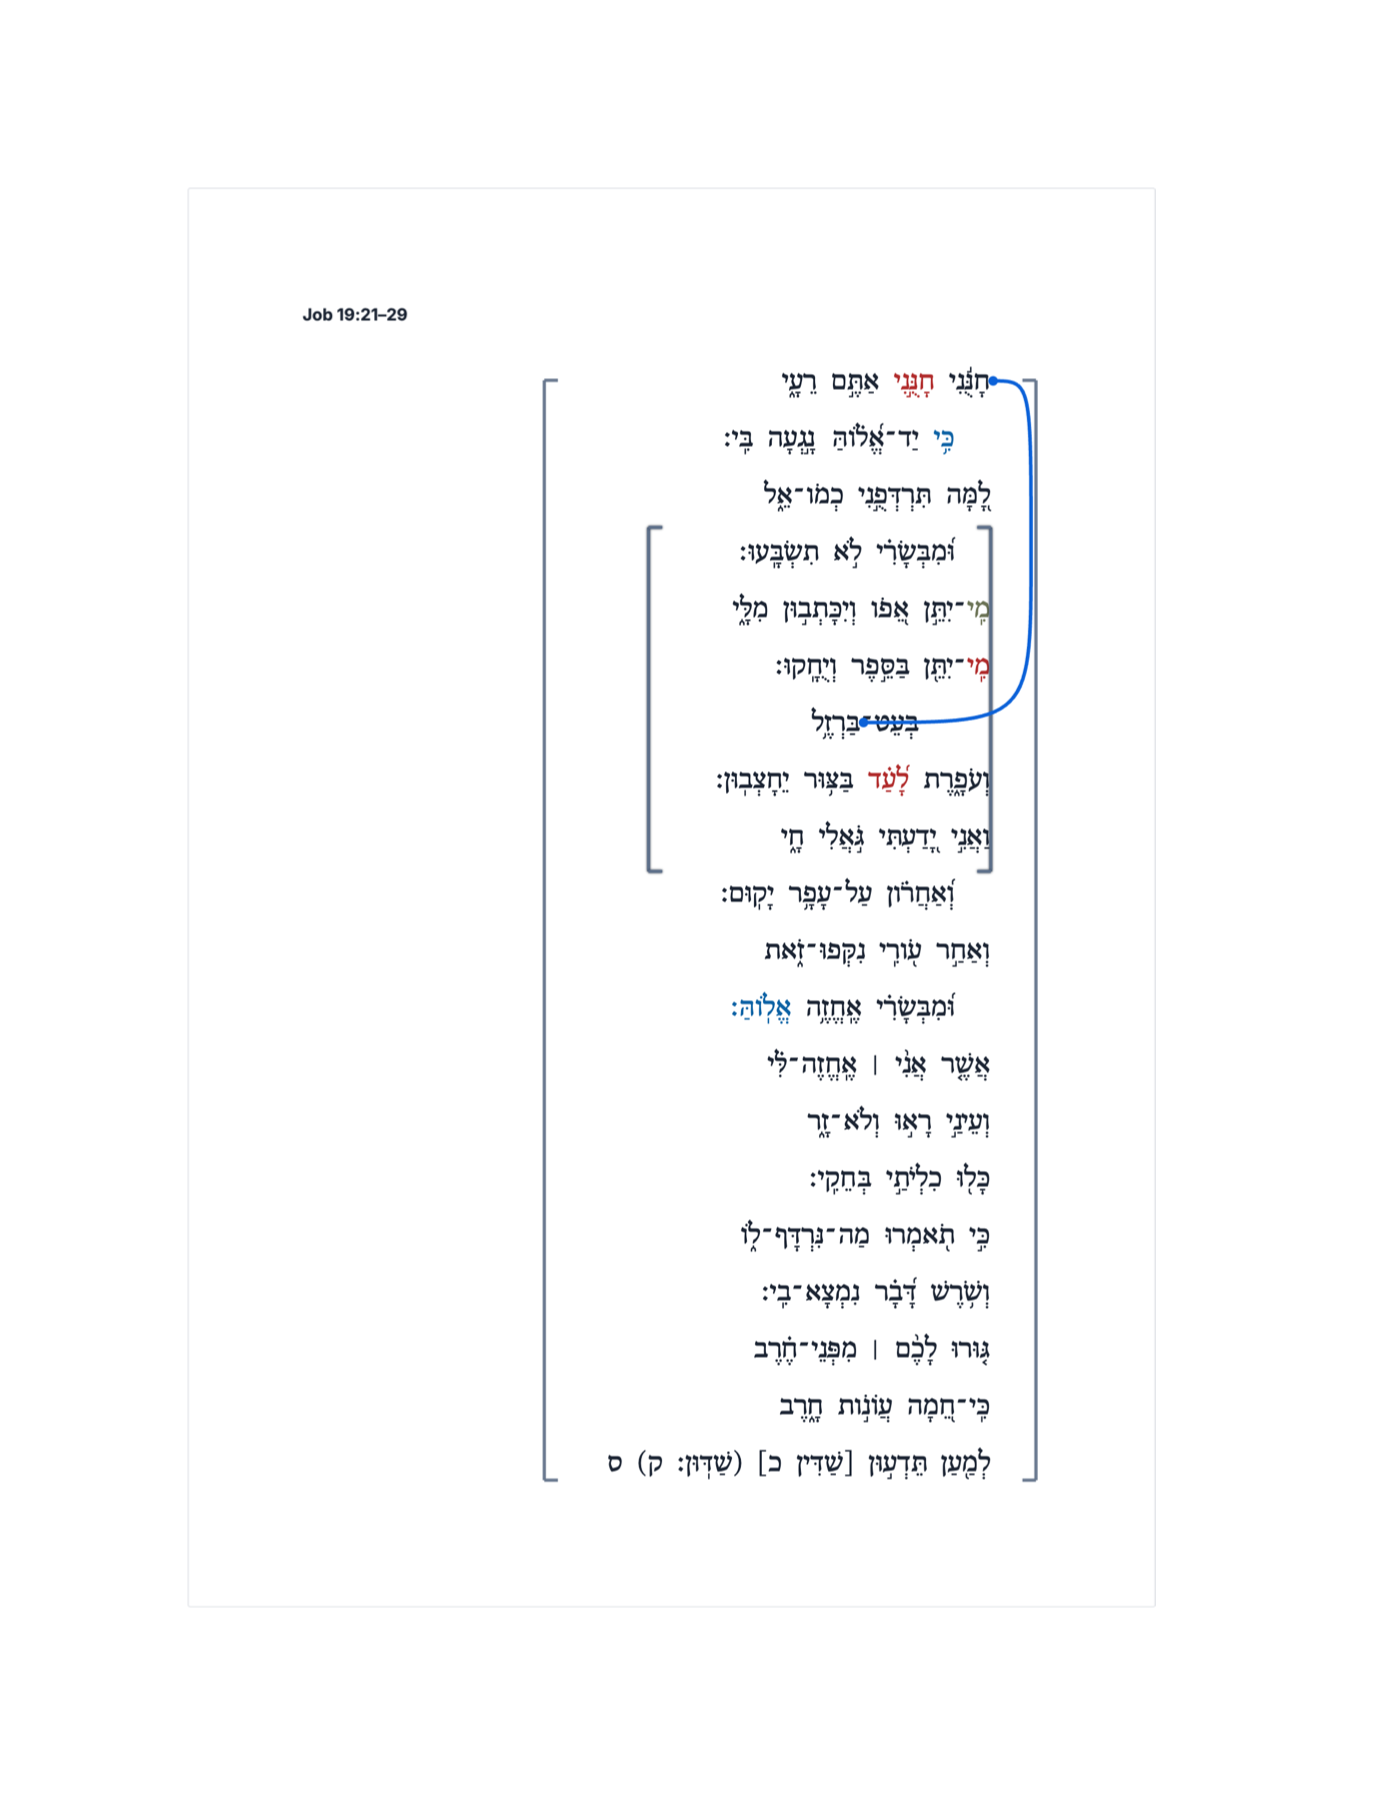
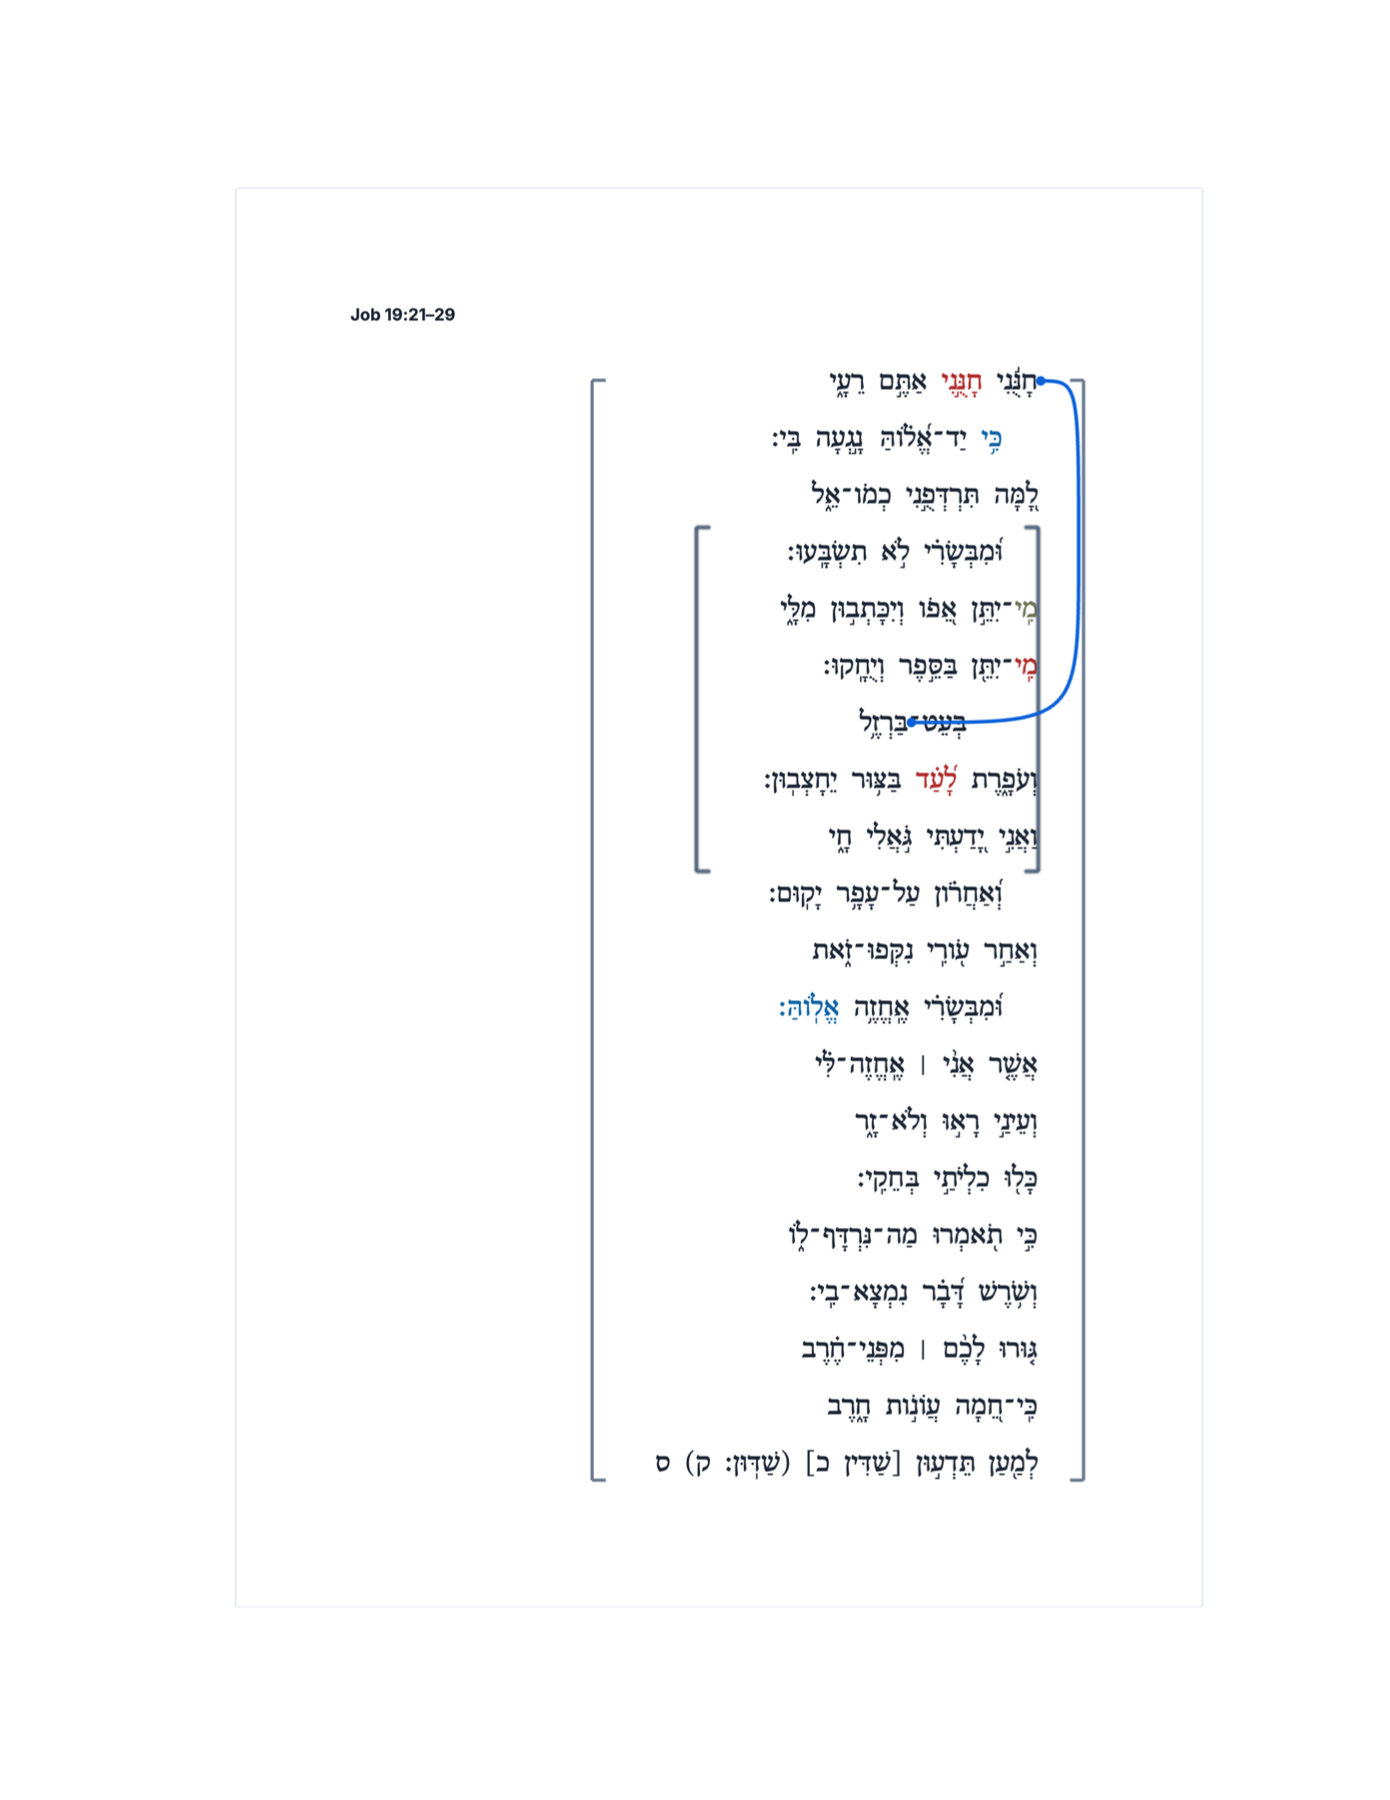
Right-align Hebrew worksheet snapshot on Letter PDF (PWA v83).
Anchor the frozen snapshot to the right printable margin instead of centering, without changing capture scale or contour layout.

Changed region(s): [[0.464, 0.1867, 0.8043, 0.84], [0.2165, 0.1556, 0.3094, 0.1867]]

diff --git a/js/app/worksheet-screenshot-export.js b/js/app/worksheet-screenshot-export.js
@@ -164,6 +164,9 @@ function buildSnapshotWorksheetDocument(capture, wsOpts) {
   const imgH = Math.round(capture.sheetH * imgScale);
   const marginIn = layout.marginIn;
   const pageSize = layout.cssSize;
+  const isGreek = typeof state !== 'undefined' && state.language === 'greek';
+  const alignClass = isGreek ? 'contour-snapshot-align-ltr' : 'contour-snapshot-align-rtl';
+  const objectPos = isGreek ? 'top left' : 'top right';
 
   const css = `@page{size:${pageSize};margin:0}`
     + '*{box-sizing:border-box;-webkit-print-color-adjust:exact!important;print-color-adjust:exact!important}'
@@ -172,13 +175,17 @@ function buildSnapshotWorksheetDocument(capture, wsOpts) {
     + '.contour-snapshot-print-hint{font-size:13px;color:#64748b;margin:0 0 12px 0;max-width:640px;line-height:1.45}'
     + '.contour-snapshot-print-hint strong{color:#b45309}'
     + `.contour-snapshot-page{width:${layout.pageW}px;min-height:${layout.pageH}px;padding:${layout.marginPx}px;background:#fff;page-break-after:avoid;page-break-inside:avoid}`
-    + `.contour-snapshot-img-wrap{width:${layout.areaW}px;max-height:${layout.areaH}px;overflow:hidden}`
-    + `.contour-snapshot-img{display:block;width:${imgW}px;height:${imgH}px;image-rendering:auto}`
+    + `.contour-snapshot-img-wrap{display:flex;align-items:flex-start;width:${layout.areaW}px;max-height:${layout.areaH}px;overflow:hidden}`
+    + `.contour-snapshot-align-rtl{justify-content:flex-end}`
+    + `.contour-snapshot-align-ltr{justify-content:flex-start}`
+    + `.contour-snapshot-img{display:block;flex:0 0 auto;width:${imgW}px;height:${imgH}px;max-width:100%;image-rendering:auto}`
     + '@media print{'
     + 'html,body{margin:0!important;padding:0!important;width:8.5in;height:11in}'
     + `.contour-snapshot-page{width:8.5in!important;height:11in!important;min-height:11in;padding:${marginIn}in!important;overflow:hidden;transform:none!important}`
-    + `.contour-snapshot-img-wrap{width:calc(8.5in - ${marginIn * 2}in)!important;max-height:calc(11in - ${marginIn * 2}in)!important}`
-    + `.contour-snapshot-img{width:100%!important;height:auto!important;max-height:calc(11in - ${marginIn * 2}in)!important;object-fit:contain;object-position:top left;transform:none!important}`
+    + `.contour-snapshot-img-wrap{display:flex!important;align-items:flex-start!important;width:calc(8.5in - ${marginIn * 2}in)!important;max-height:calc(11in - ${marginIn * 2}in)!important;overflow:hidden!important}`
+    + `.contour-snapshot-align-rtl{justify-content:flex-end!important}`
+    + `.contour-snapshot-align-ltr{justify-content:flex-start!important}`
+    + `.contour-snapshot-img{display:block!important;flex:0 0 auto!important;width:auto!important;max-width:100%!important;height:auto!important;max-height:calc(11in - ${marginIn * 2}in)!important;object-fit:contain;object-position:${objectPos}!important;transform:none!important}`
     + 'button,.contour-snapshot-print-hint{display:none!important}'
     + '}';
 
@@ -191,7 +198,7 @@ function buildSnapshotWorksheetDocument(capture, wsOpts) {
     + '<body class="contour-snapshot-worksheet">'
     + hint
     + '<button type="button" onclick="window.print()" style="margin-bottom:14px;padding:8px 14px">Print / Save as PDF</button>'
-    + `<div class="contour-snapshot-page"><div class="contour-snapshot-img-wrap">`
+    + `<div class="contour-snapshot-page"><div class="contour-snapshot-img-wrap ${alignClass}">`
     + `<img class="contour-snapshot-img" src="${capture.dataUrl}" width="${imgW}" height="${imgH}" alt="Contour worksheet snapshot">`
     + '</div></div></body></html>';
 }

diff --git a/service-worker.js b/service-worker.js
@@ -1,4 +1,4 @@
-const CACHE_NAME = 'contour-app-pwa-v82';
+const CACHE_NAME = 'contour-app-pwa-v83';
 const APP_ASSETS = [
   './',
   './index.html',
